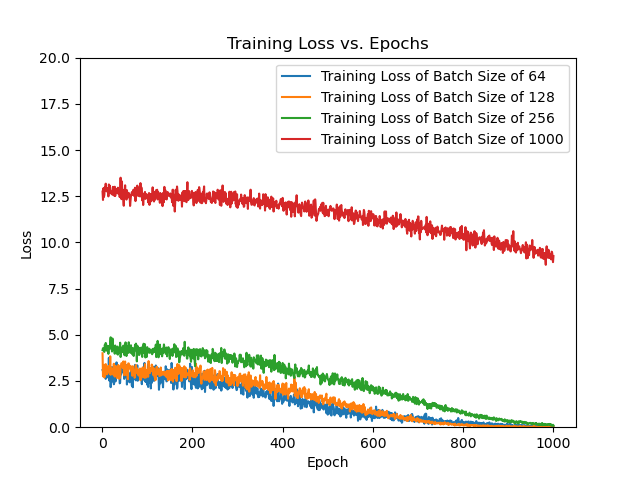
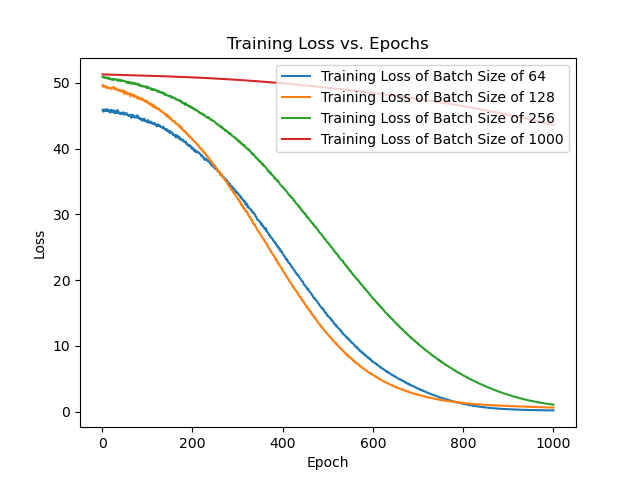
figs for deep network 1.4

diff --git a/task1.py b/task1.py
@@ -99,8 +99,8 @@ for batchsize in batch_sizes:
     train_loader = DataLoader(dataset, batch_size=batchsize, shuffle=True)
     
     # Model, Loss, Optimizer
-    #model = DeepCorrectorMLP(num_hidden_nodes = 32)
-    model = MLP()
+    model = DeepCorrectorMLP(num_hidden_nodes = 32)
+    # model = MLP()
     criterion = nn.MSELoss()
     optimizer = optim.Adam(model.parameters(), lr=0.00001)
     
@@ -206,7 +206,7 @@ plt.xlabel('Epoch')
 plt.ylabel('Loss')
 plt.title('Training Loss vs. Epochs')
 plt.legend(loc='upper right')
-plt.savefig(f'Figures/task1.4/Shallow Network/Training_Loss')
+plt.savefig(f'Figures/task1.4/Deep Network/Training_Loss')
 plt.show()
 
 
@@ -262,5 +262,5 @@ plt.xlabel("Epoch")
 plt.ylabel("Batch Size Configuration")
 plt.title("Training Loss Heatmap Across Batch Size Configurations and Epochs")
 plt.yticks([0, 1, 2, 3], ['Batch Size 64', 'Batch Size 128', 'Batch Size 256', 'Batch Size 1000'])
-plt.savefig('Figures/task1.4/Shallow Network/Training_Loss_Heatmap.png')
+plt.savefig('Figures/task1.4/Deep Network/Training_Loss_Heatmap.png')
 plt.show()
